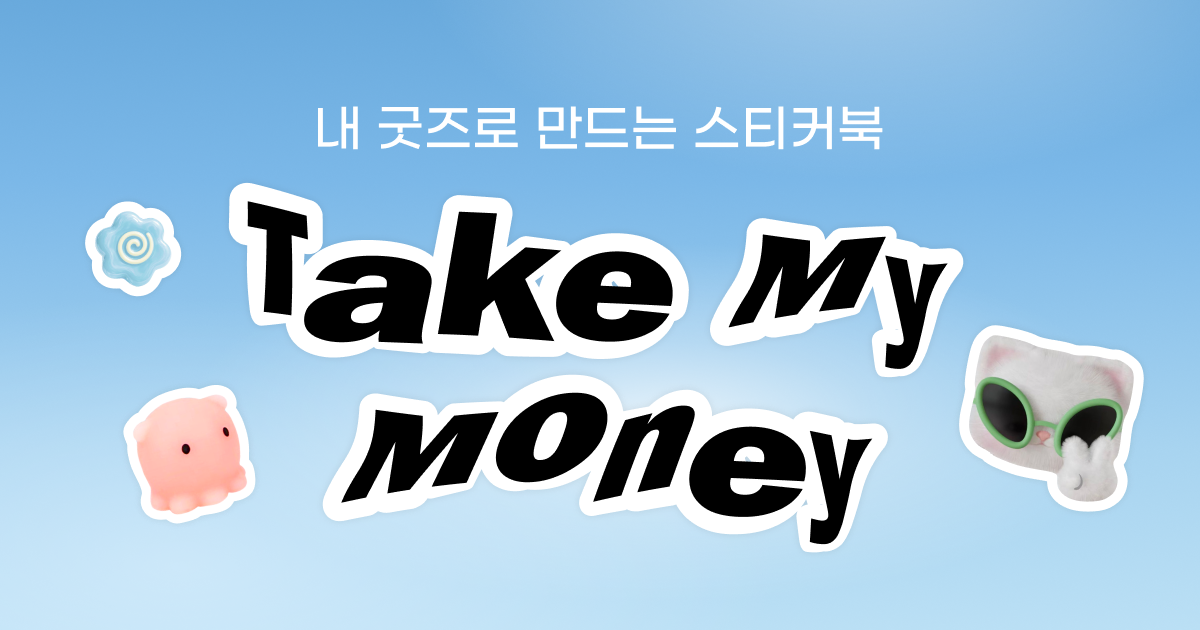
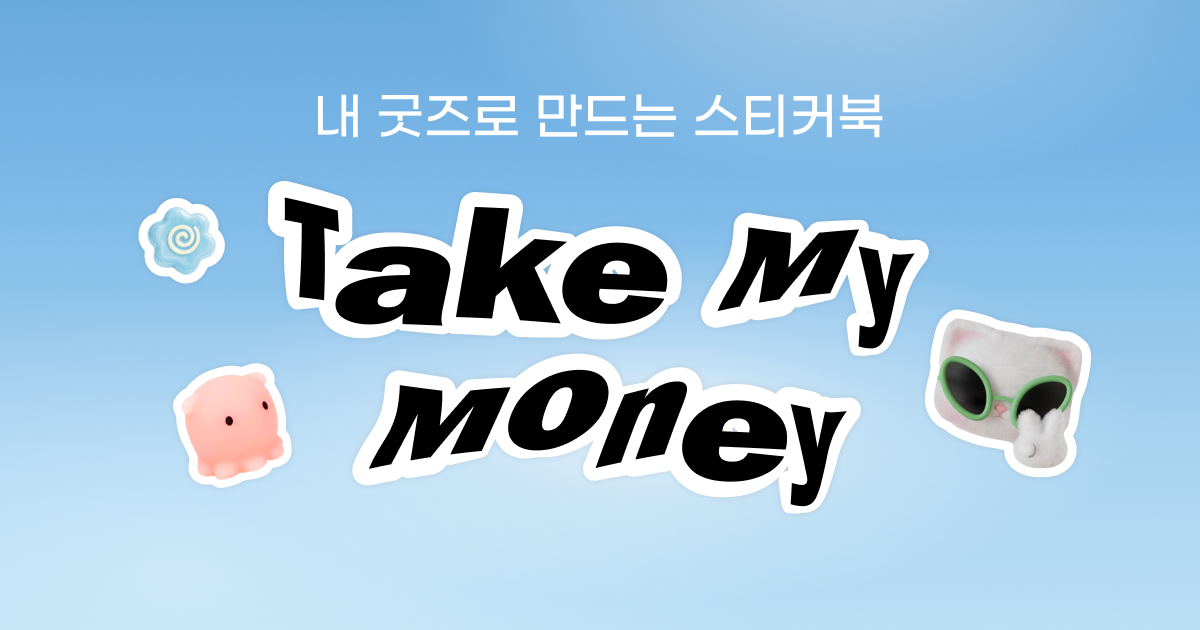
fix: shorten profile links and update invitation sharing

Changed region(s): [[0.0617, 0.2714, 0.9558, 0.8746], [0.2467, 0.1508, 0.74, 0.2413], [0.0925, 0.573, 0.2467, 0.8444]]

diff --git a/invite/index.html b/invite/index.html
@@ -3,14 +3,14 @@
 <head>
 <meta charset="utf-8">
 <meta name="viewport" content="width=device-width, initial-scale=1">
-<title>테이크마이머니 — 내 굿즈로 만드는 스티커북</title>
+<title>내 굿즈로 만드는 스티커북</title>
 <meta name="description" content="굿즈를 찍고, 스티커북에 모아보세요.">
 <meta property="og:type" content="website">
 <meta property="og:locale" content="ko_KR">
 <meta property="og:site_name" content="테이크마이머니">
-<meta property="og:title" content="테이크마이머니 — 내 굿즈로 만드는 스티커북">
-<meta property="og:description" content="굿즈를 찍고, 스티커북에 모아보세요. 이 링크로 가입하면 초대한 친구의 공간이 늘어나요.">
-<meta property="og:image" content="https://grit-han.github.io/og-invite.png">
+<meta property="og:title" content="내 굿즈로 만드는 스티커북">
+<meta property="og:description" content="좋아하는 굿즈를 찍고, 스티커로 모아보세요. 가입하면 초대한 친구의 보관함이 늘어나요.">
+<meta property="og:image" content="https://grit-han.github.io/og-invite.png?v=20261101">
 <meta property="og:image:width" content="1200">
 <meta property="og:image:height" content="630">
 <meta property="og:image:alt" content="내 굿즈로 만드는 스티커북, Take My Money">

diff --git a/p/profile.js b/p/profile.js
@@ -1,0 +1,8 @@
+(() => {
+ const code=new URL(location.href).searchParams.get('u')||'';const alphabet='ABCDEFGHIJKLMNOPQRSTUVWXYZabcdefghijklmnopqrstuvwxyz0123456789-_';
+ if(!/^[A-Za-z0-9_-]{22}$/.test(code))return;
+ let bits=0,value=0,hex='';for(const char of code){value=(value<<6)|alphabet.indexOf(char);bits+=6;if(bits>=8){bits-=8;hex+=((value>>>bits)&255).toString(16).padStart(2,'0');}}
+ if((value&15)!==0)return;
+ const id=hex.slice(0,8)+'-'+hex.slice(8,12)+'-'+hex.slice(12,16)+'-'+hex.slice(16,20)+'-'+hex.slice(20);
+ const link='dayxday://public-library?ownerId='+id+'&entry=link';document.getElementById('open').href=link;let opened=false;document.addEventListener('visibilitychange',()=>{if(document.hidden)opened=true;});location.replace(link);setTimeout(()=>{if(!opened)location.replace(/Android/i.test(navigator.userAgent)?'https://play.google.com/store/apps/details?id=com.grittyworld.dayxday':'https://apps.apple.com/app/id6800927238');},1200);
+})();

diff --git a/invite/invite.js b/invite/invite.js
@@ -3,8 +3,11 @@
  const valid = /^[0-9a-f]{8}-[0-9a-f]{4}-[0-9a-f]{4}-[0-9a-f]{4}-[0-9a-f]{12}$/i.test(token || '');
  const open = document.getElementById('open-app');
  open.href = valid ? 'dayxday://friend-invite?token=' + encodeURIComponent(token) : 'dayxday://friend-invite?token=invalid';
+ let market='https://apps.apple.com/app/id6800927238';
  if (/Android/i.test(navigator.userAgent)) {
   const referrer = valid ? '&referrer=' + encodeURIComponent('invite=' + token) : '';
-  document.getElementById('install-app').href = 'https://play.google.com/store/apps/details?id=com.grittyworld.dayxday' + referrer;
+  market = 'https://play.google.com/store/apps/details?id=com.grittyworld.dayxday' + referrer;
  }
+ document.getElementById('install-app').href=market;
+ if(/Android|iPhone|iPad|iPod/i.test(navigator.userAgent))location.replace(market);
 })();

diff --git a/p/index.html b/p/index.html
@@ -1,0 +1,1 @@
+<!doctype html><html lang="ko"><head><meta charset="utf-8"><meta name="viewport" content="width=device-width,initial-scale=1"><title>테이크마이머니 스티커북</title><meta property="og:title" content="테이크마이머니 스티커북"><meta property="og:description" content="좋아하는 굿즈를 스티커로 모아보세요."><meta property="og:image" content="https://grit-han.github.io/og-invite.png?v=20261101"><meta property="og:site_name" content="테이크마이머니"></head><body><a id="open" href="https://apps.apple.com/app/id6800927238">앱 열기</a><script src="profile.js"></script></body></html>
